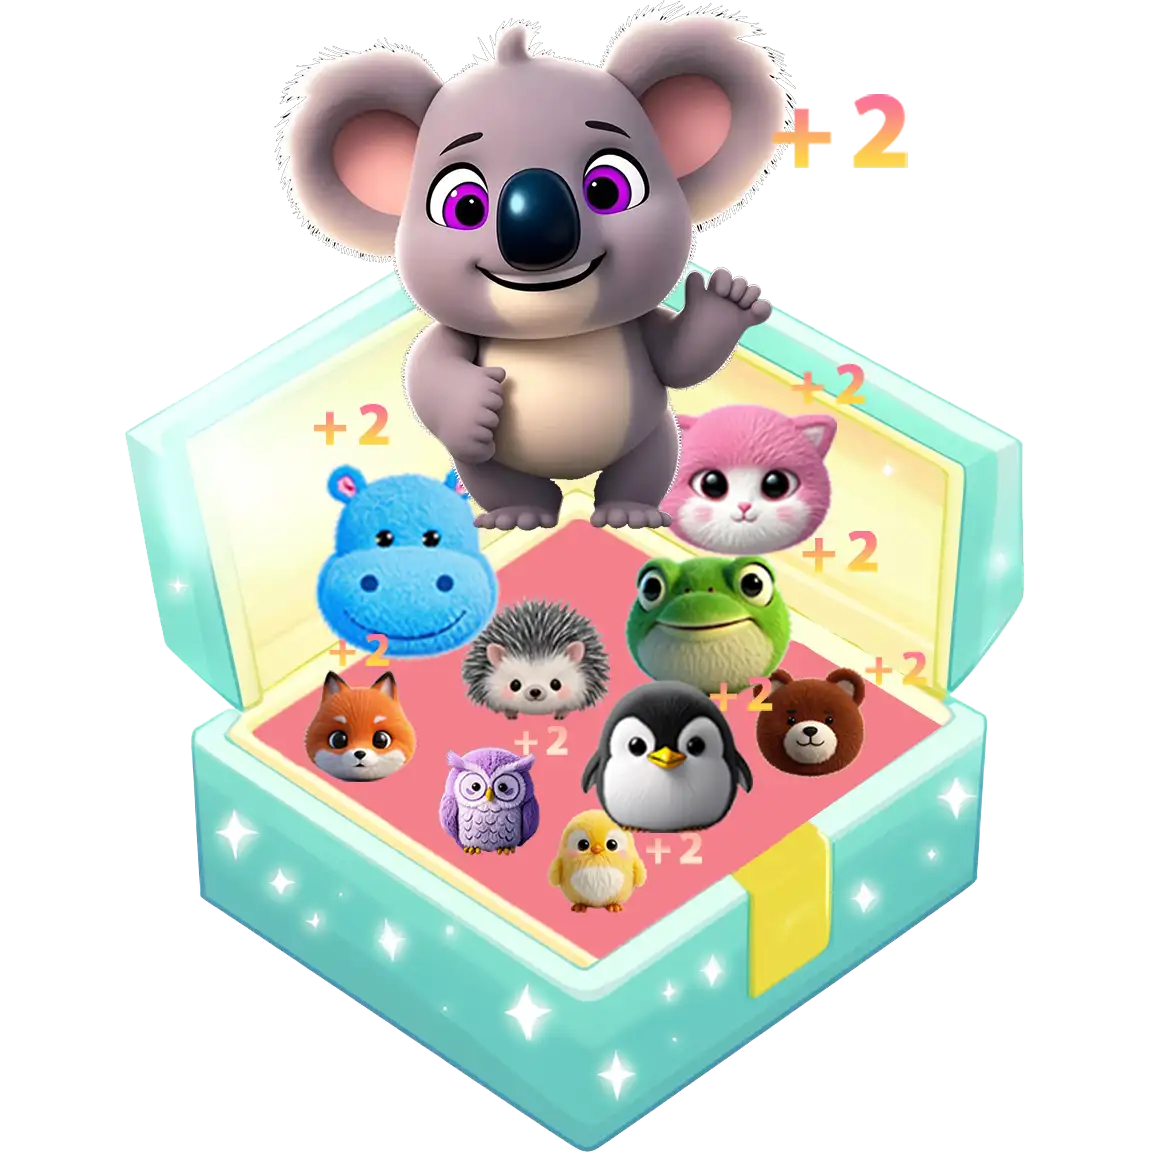
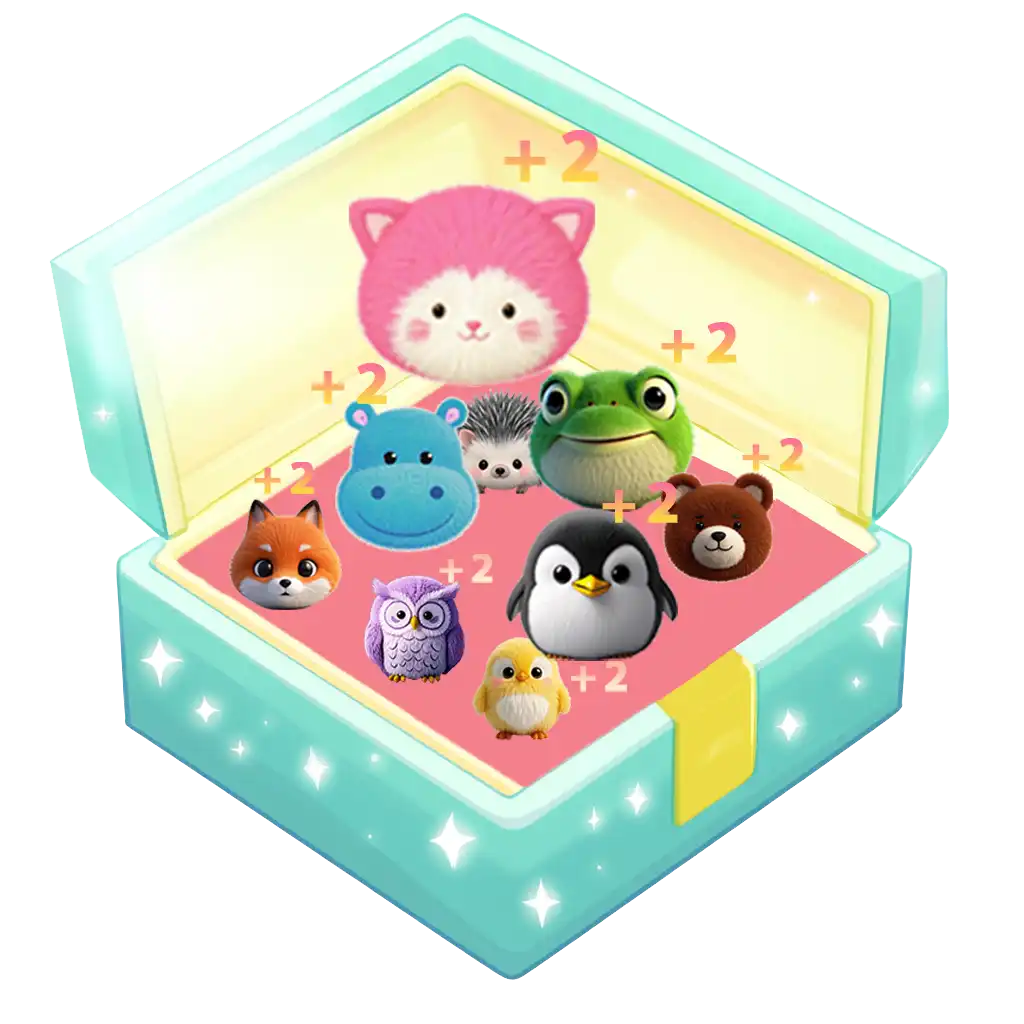
1.add GiftBoxOpenHSK logic 2.add Top Buy add SIMBA from HSK

diff --git a/packages/client/src/components/herder/newUserBenefitsToken.tsx b/packages/client/src/components/herder/newUserBenefitsToken.tsx
@@ -8,7 +8,8 @@ import { useTopUp } from "../select";
 import { addressToEntityID } from "../rightPart";
 import GiftBoxImg from '../../images/GiftBox/GiftBox.webp';
 import OpenGiftBoxImg from '../../images/GiftBox/GiftBoxOpen.webp';
-
+import OpenGiftBoxMorphImg from '../../images/GiftBox/GiftBoxOpenMorph.webp';
+import OpenGiftBoxHSKImg from '../../images/GiftBox/GiftBoxOpenHSK.webp';
 
 interface Props {
     checkTaskInProcess: any,
@@ -25,6 +26,7 @@ export default function NewUserBenefitsToken({ checkTaskInProcess, handleErrorAl
     } = useMUD();
     const { address } = useAccount();
     const [callStatus, setCallStatus] = useState(0);
+    const { chainId } = useTopUp();
 
     const userBenefitsToken = address ? getComponentValue(UserBenefitsToken, addressToEntityID(address)) : undefined;
     
@@ -77,7 +79,11 @@ export default function NewUserBenefitsToken({ checkTaskInProcess, handleErrorAl
                 <div className={benefitsStyle.bloomBg}>
                     <div className={benefitsStyle.overlay}>
                         <img
-                            src={OpenGiftBoxImg}
+                            src={
+                                chainId === 2818 ? OpenGiftBoxMorphImg :
+                                chainId === 177 ? OpenGiftBoxHSKImg :
+                                OpenGiftBoxImg
+                            }
                             className={benefitsStyle.animatedGiftOpen}
                             alt="GiftOpen"
                         />

diff --git a/packages/client/src/components/select/index.tsx b/packages/client/src/components/select/index.tsx
@@ -211,6 +211,8 @@ export const useTopUp = () => {
         setRecipient("0xc44504ab6a2c4df9a9ce82aecfc453fec3c8771c");
         setBridgeUrl("https://bridge.hsk.xyz/")
         setChianIcon("https://hsk.xyz/static/logo.png");
+        setTokenAddress(["0x0000000000000000000000000000000000000013", ...defaultTokenAddresses])
+        setPriTokenAddress(["0x0000000000000000000000000000000000000013", ...defaultTokenAddresses])
       }else if(chainId != 0){
         setRewardDescInfo("Morph Points for each game, along with additional rewards for the top 250 players every week.");
         setRecipient("0x784844480280ca865ac8ef89bb554283dddff737");

diff --git a/packages/client/src/components/imageIconData.tsx b/packages/client/src/components/imageIconData.tsx
@@ -151,4 +151,8 @@ export const imageIconData = {
         src: 'image/private/KOALA.webp',
         name: "KOALA",
     },
+    '0x0000000000000000000000000000000000000013': {
+        src: 'image/private/SIMBA.webp',
+        name: "SIMBA",
+    },
 };
